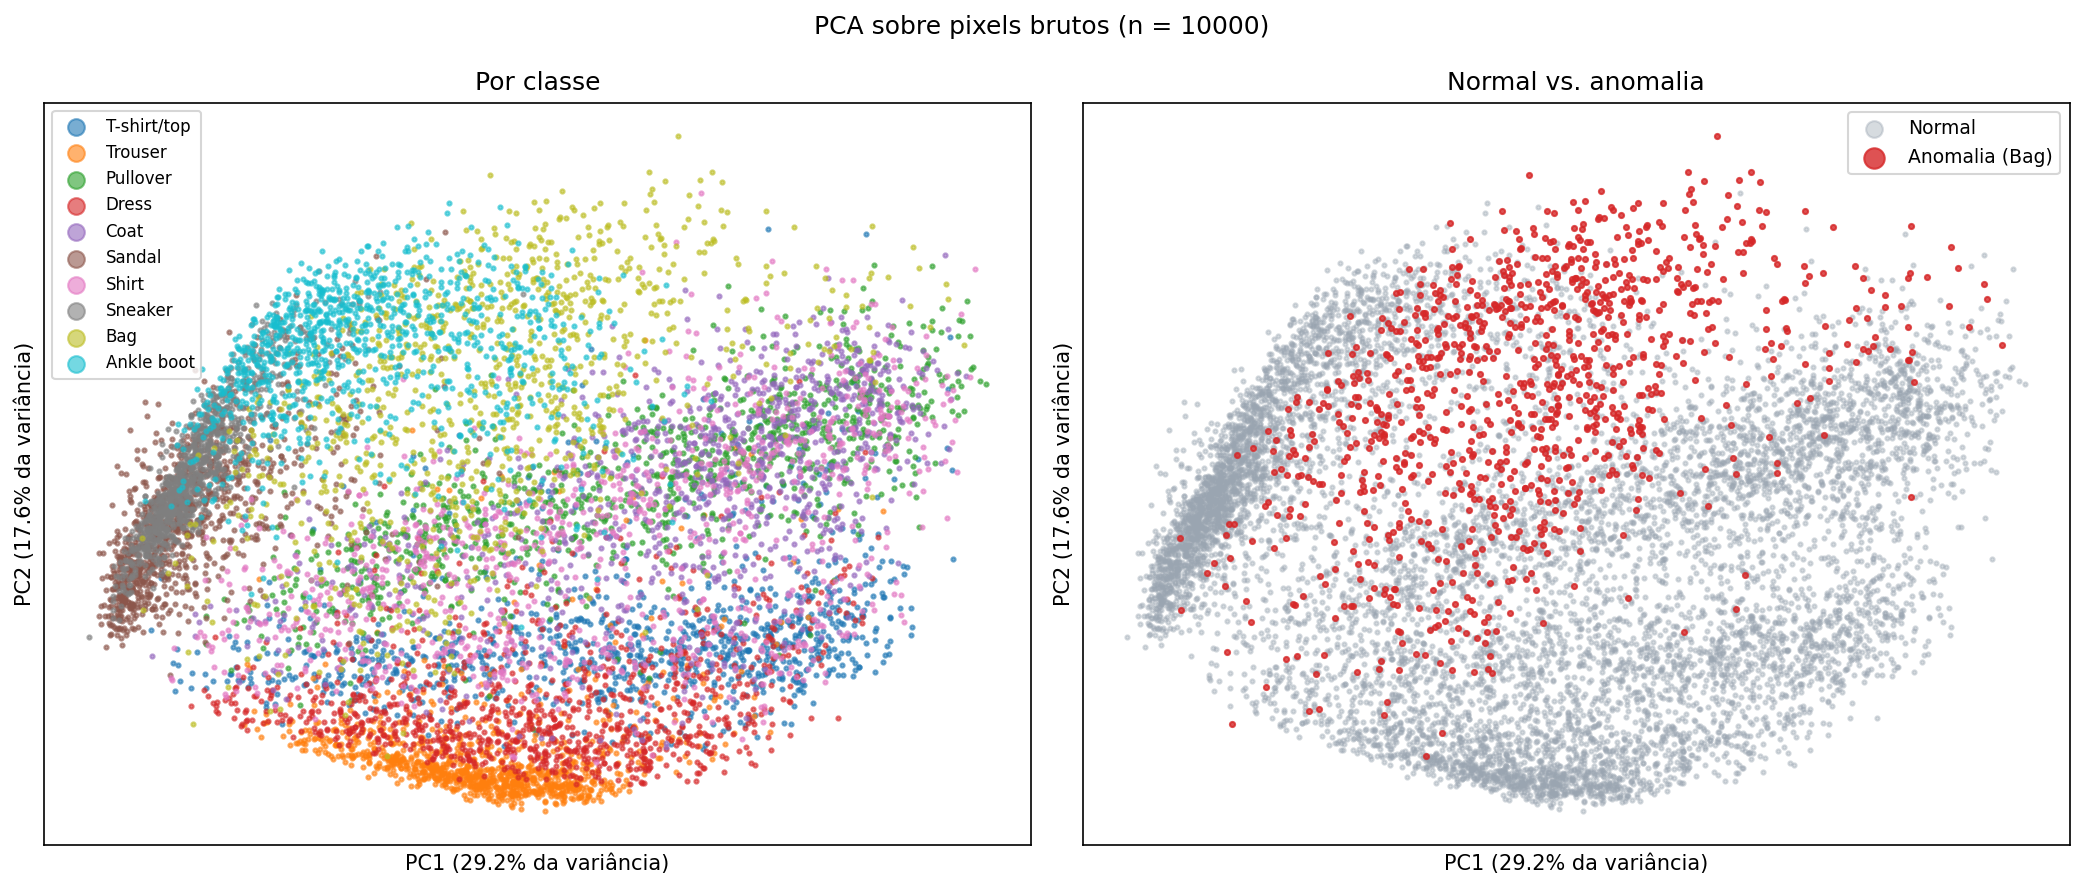
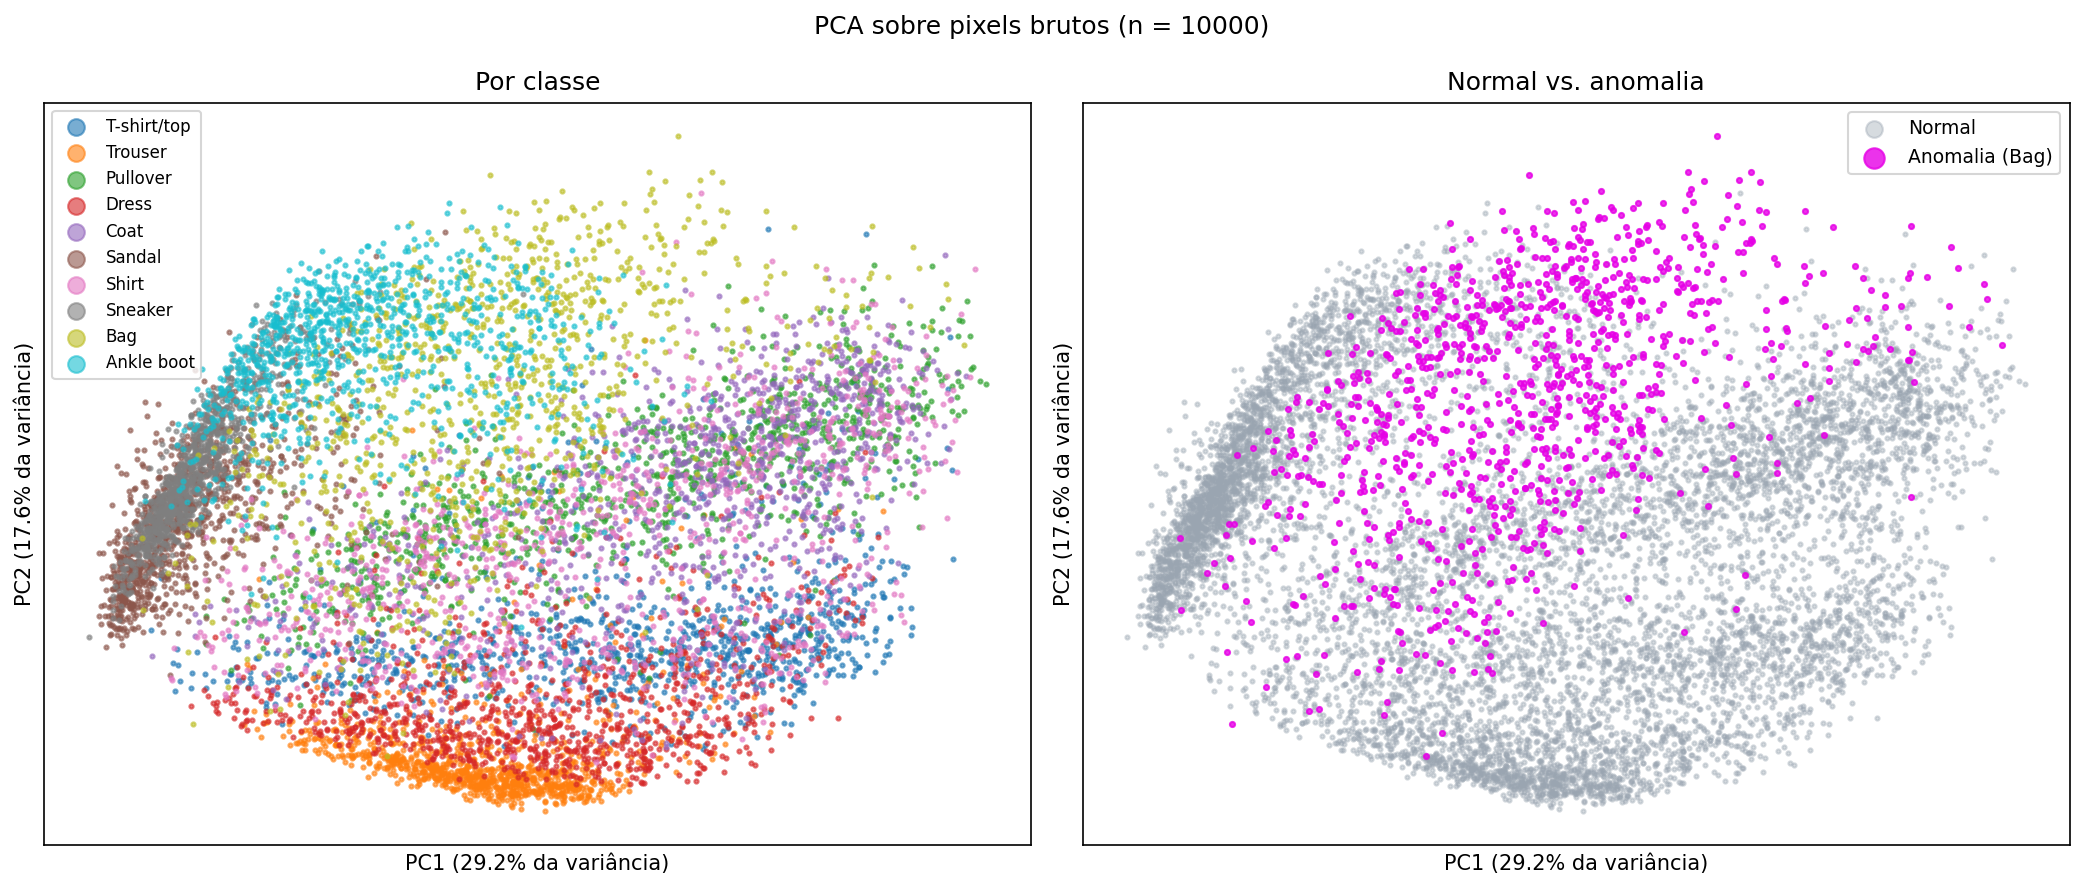
fix: cor da anomalia fora da paleta tab10 (#7)
O vermelho usado para a anomalia era o mesmo da classe Dress na tab10,
então a figura tinha vermelho com dois significados. Troca para magenta
(#e600e6), regenera as duas figuras e adiciona um teste que impede a cor
da anomalia de coincidir com as cores das classes.

Ajusta também o docstring do PCA: as distâncias na projeção 2D são
aproximadas, não têm significado geométrico exato.

Changed region(s): [[0.5926, 0.2126, 0.8421, 0.7593], [0.8421, 0.3645, 0.9045, 0.3948], [0.8733, 0.1519, 0.9045, 0.1822]]

diff --git a/src/autoencoder/visualize.py b/src/autoencoder/visualize.py
@@ -4,8 +4,9 @@ As funções recebem matrizes, não o modelo. Hoje elas rodam sobre os pixels
 brutos (N, 28, 28) ou (N, 784). Quando o Autoencoder existir, basta passar a
 saída de ``encode()`` com formato (N, dimensão_latente).
 
-- PCA é linear e preserva a variância global. As distâncias entre os grupos
-  têm significado geométrico.
+- PCA é linear e preserva a maior variância possível em 2D, mas descarta o
+  resto. Distâncias na figura são aproximadas: pontos próximos na projeção
+  podem estar distantes no espaço original.
 - t-SNE é não linear e preserva vizinhanças locais. Tamanhos de grupos e
   distâncias entre grupos NÃO devem ser interpretados. Use uma amostra de
   2 a 3 mil pontos, senão a execução fica lenta.
@@ -21,7 +22,9 @@ from sklearn.manifold import TSNE
 from .data import CLASS_NAMES
 
 NORMAL_COLOR = "#9aa5b1"
-ANOMALY_COLOR = "#d62728"
+# Magenta: fora da paleta tab10 usada em plot_by_class, para que a cor da
+# anomalia não se confunda com nenhuma classe (o vermelho da tab10 é Dress).
+ANOMALY_COLOR = "#e600e6"
 
 
 def as_matrix(features) -> np.ndarray:

diff --git a/tests/test_visualize.py b/tests/test_visualize.py
@@ -95,3 +95,13 @@ def test_plots_reject_mismatched_labels(blobs):
     features, labels = blobs
     with pytest.raises(ValueError):
         visualize.plot_by_class(features[:, :2], labels[:-1])
+
+
+def test_anomaly_color_is_not_a_class_color():
+    """A cor da anomalia não pode coincidir com nenhuma cor da tab10 nem com o cinza."""
+    from matplotlib.colors import to_hex
+
+    class_colors = {to_hex(c) for c in plt.get_cmap("tab10").colors}
+    anomaly = to_hex(visualize.ANOMALY_COLOR)
+    assert anomaly not in class_colors
+    assert anomaly != to_hex(visualize.NORMAL_COLOR)
